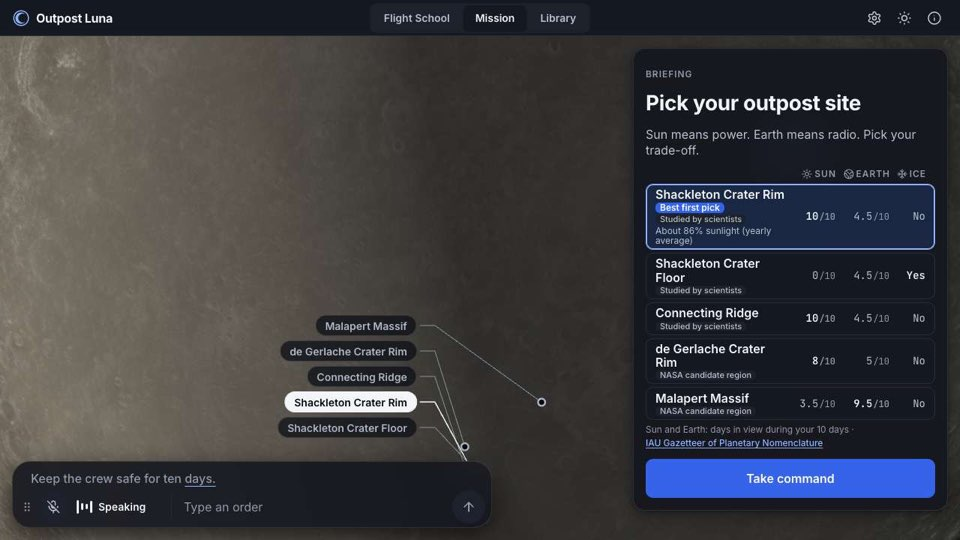
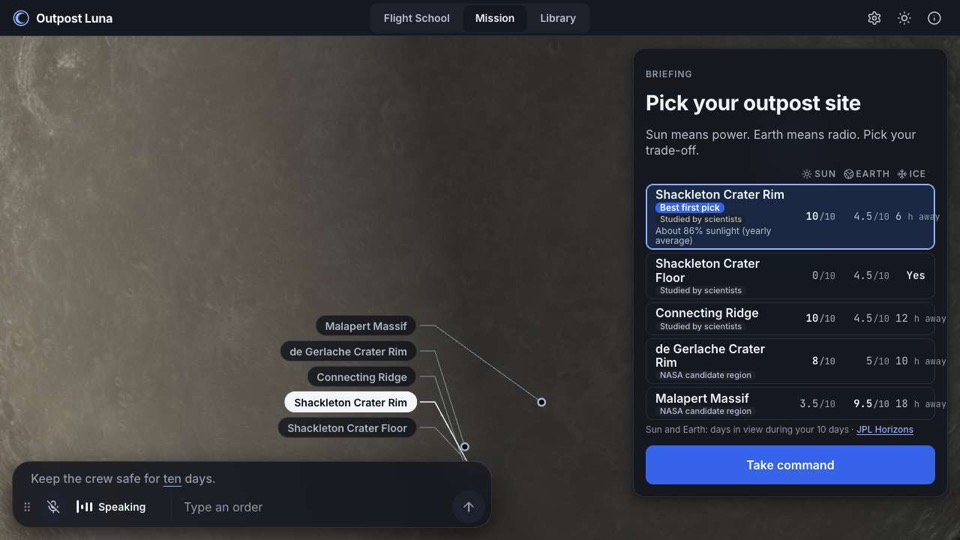
QA-23: no stalled top transition under the alert strip; final story screenshots (objective strip, warning, paused debrief confirm)

diff --git a/frontend/src/cabin.css b/frontend/src/cabin.css
@@ -480,6 +480,8 @@ html[data-motion="reduce"] .is-point{animation:none}
 .c3[data-panel="seat"] .du-head span{font-size:var(--text-md)}
 
 /* QA-23: with the alert strip up, the clock / views row, sky and rover chip sit below its real height */
+/* no transition on top here: the window HUD re-lays out every frame, and a stalled transition left the row under the strip */
+.cb-hole>.cb-top{transition:none}
 .cb-hole.has-alert>.cb-top{top:calc(var(--inset) * .5 + var(--alert-h, var(--control-md)) + var(--space-2))}
 .cb-hole.has-alert>.cb-sky,.cb-hole.has-alert>.cb-rover{top:calc(var(--inset) * .5 + var(--alert-h, var(--control-md)) + var(--space-2) + 56px)}
 .cb-glass.has-alert .cb-top{top:calc(var(--space-4) + var(--alert-h, var(--control-md)) + var(--space-2))}
